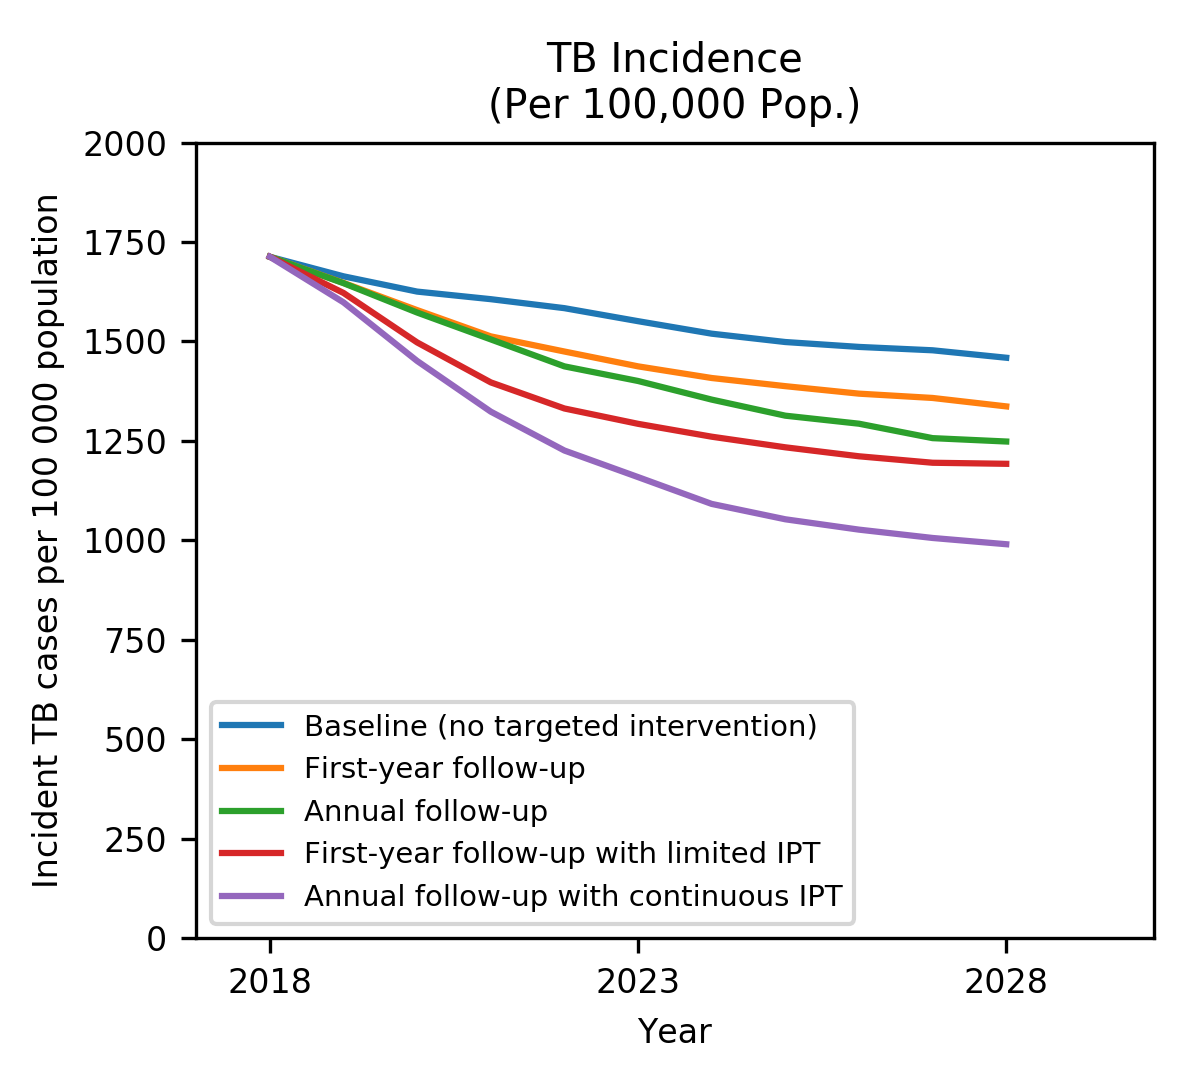
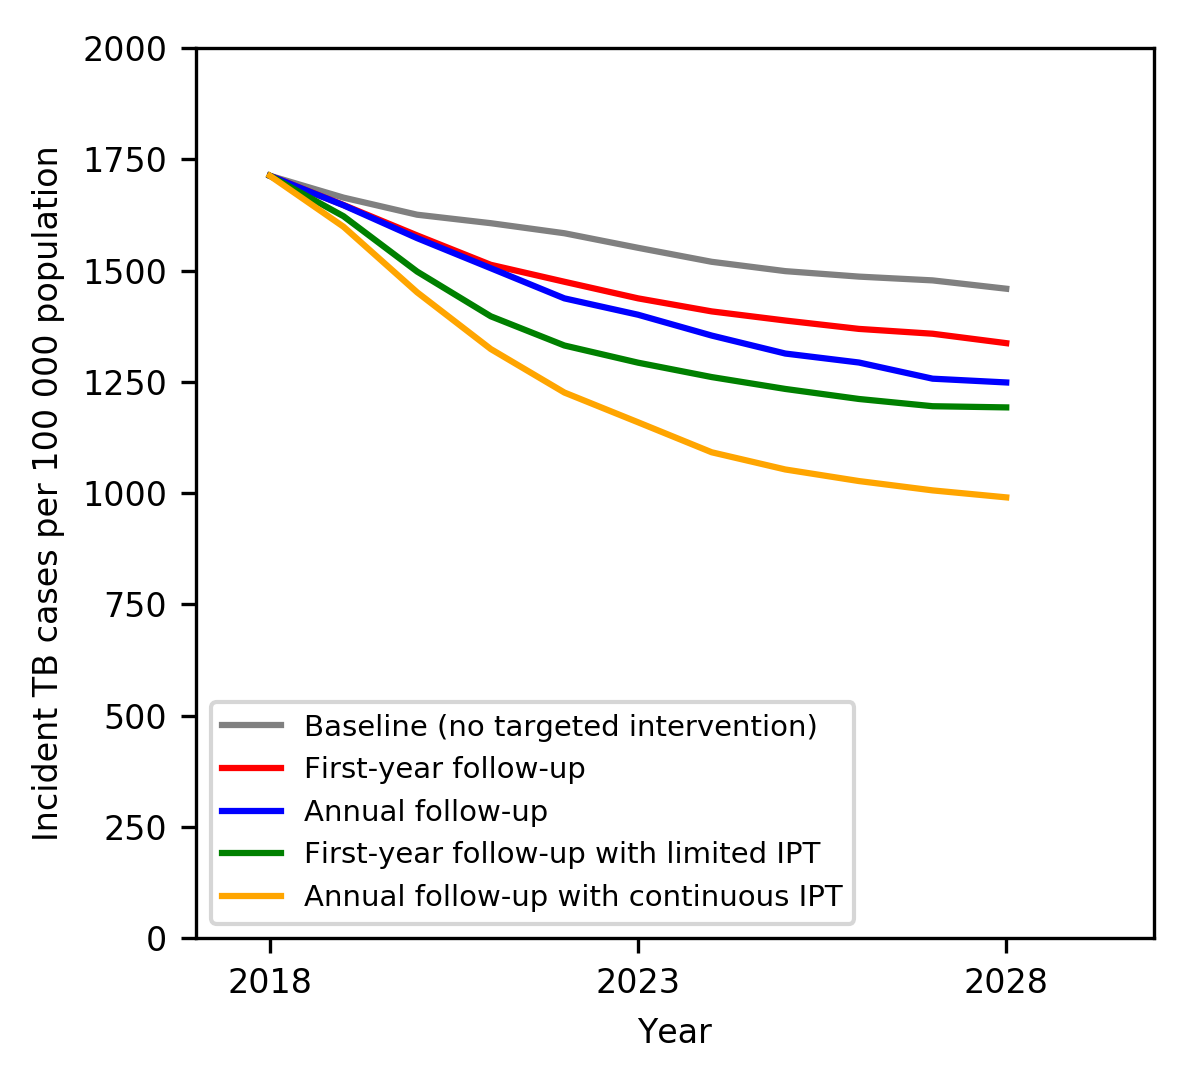
TB changing colors of impact time-series

diff --git a/apace/TrajectoriesClasses.py b/apace/TrajectoriesClasses.py
@@ -456,16 +456,19 @@ class TrajImpact:
                  fig_infos,
                  time_0=0,
                  warm_up=0,
-                 period_length=1
+                 period_length=1,
+                 scenario_colors=None
                  ):
         """
         :param scenarios_csv_files: (list of strings) list of csv files for each scenarios
         :param scenario_names: (list of strings) list of scenario names
         :param fig_infos: (list) list of figure info
+        :param scenario_colors: (list) of colors
         """
 
         self.figInfos = fig_infos   # list of figure information
         self.scenarioNames = scenario_names
+        self.scenarioColors = scenario_colors
         self.dictImpactMeasures = {}  # dictionary of impact measures
 
         # initialize dictionaries of impact measures
@@ -505,13 +508,17 @@ class TrajImpact:
                 ylabel=self.figInfos[panel_idx].yLabel)
 
             # plot trajectories
+            i = 0
             for scenario_name, value in dict_mean_trajs.items():
                 legends.append(scenario_name)
                 times = value[0]
                 means = value[1]
                 ax.plot(
                     self.figInfos[panel_idx].xMultiplier * times,
-                    self.figInfos[panel_idx].yMultiplier * means)
+                    self.figInfos[panel_idx].yMultiplier * means,
+                    color = self.scenarioColors[i]
+                )
+                i += 1
 
             ax.legend(legends, fontsize=7)
 

diff --git a/tb/TBImpact.py b/tb/TBImpact.py
@@ -16,7 +16,7 @@ list_plot_info.append(
         y_range=[0, 2000],
         y_label='Incident TB cases per 100 000 population',
         y_multiplier=100000,
-        title="TB Incidence\n(Per 100,000 Pop.)",
+        # title="TB Incidence\n(Per 100,000 Pop.)",
         figure_size=(4, 3.6),
         file_name='Impact-TBIncidence')
 )
@@ -63,7 +63,8 @@ eff = Vis.TrajImpact(
     fig_infos=list_plot_info,
     time_0=Set.TIME_0,
     warm_up=Set.PROJ-Set.TIME_0-2,
-    period_length=1
+    period_length=1,
+    scenario_colors=['gray', 'red', 'blue', 'green', 'orange']
 )
 
 eff.plot_all()
